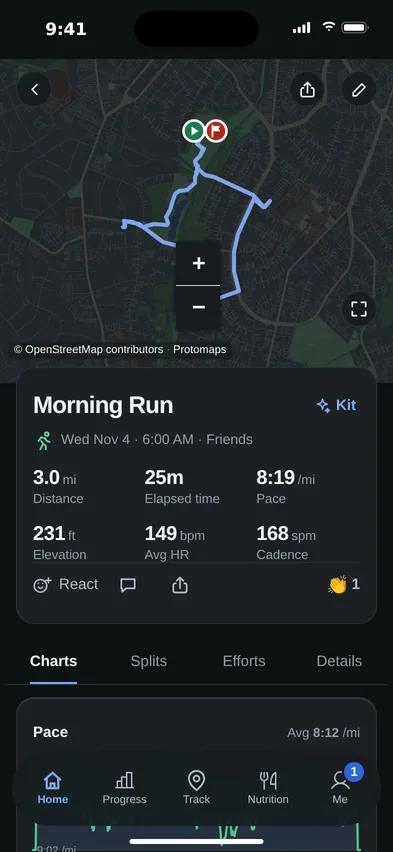
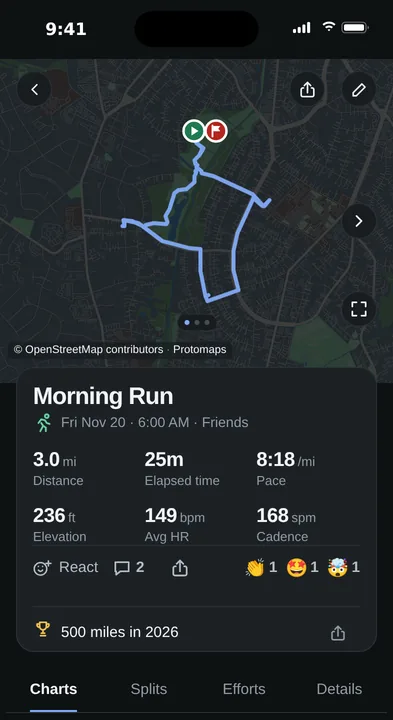
App screenshot fixtures: map, meal, profile and illustrated members (#1324)
* Add fictional app screenshot fixtures for #1319

* Tighten map and meal captures for #1319

* Keep screenshot PNGs full before publishing map crop

* Keep confirmed meal source PNGs full size

diff --git a/dev/screenshots/take.js b/dev/screenshots/take.js
@@ -157,8 +157,8 @@ async function closeCaptureContext(context) {
 }
 (async () => {
   const browser = await chromium.launch(), errors = [];
-  const openFoodDemo = async (login, scheme) => {
-    const context = await browser.newContext({viewport: {width: W, height: H}, deviceScaleFactor: SCALE, colorScheme: scheme,
+  const openFoodDemo = async (login, scheme, height = H) => {
+    const context = await browser.newContext({viewport: {width: W, height}, deviceScaleFactor: SCALE, colorScheme: scheme,
       timezoneId: SCREENSHOT_CLOCK.timezone, serviceWorkers: 'block'});
     await context.route('**/*', route => new URL(route.request().url()).origin === B ? route.continue() : route.abort());
     await context.route('**/style.css*', async route => {
@@ -321,6 +321,62 @@ async function closeCaptureContext(context) {
         await foodChatPage.screenshot({path: `${OUT}/${scheme}-${name}.png`});
         continue;
       }
+      if (opt.foodChat === 'confirmed') {
+        const demo = await openFoodDemo(`zz_test_1319_chat_${scheme}`, scheme);
+        foodChatCtx = demo.context;
+        foodChatPage = demo.page;
+        await enableKitForDemo(foodChatPage);
+        await foodChatPage.goto(B + '/food/describe?meal=lunch');
+        await foodChatPage.locator('#thread-text').waitFor();
+        const fixtureDay = await foodChatPage.evaluate(async () => {
+          const payload = await fetch('/api/food/thread?limit=100').then(r => r.json());
+          const message = [...(payload.messages || [])].reverse().find(m => m.kind === 'user' && m.body === 'Chicken sandwich and an apple for lunch');
+          const reply = message && payload.messages.find(m => m.kind === 'reply' && m.reply_to === message.id);
+          const key = Object.keys(localStorage).find(name => name.startsWith('fit.food.review.draft:'));
+          if (!message?.result?.draft_id || reply?.result?.kind !== 'preview' || !key) {
+            throw Error('Missing the fictional #1319 meal review fixture.');
+          }
+          localStorage.setItem(key, JSON.stringify({id: message.result.draft_id, meal: 'lunch', day: message.local_day, explicitDay: true, active: true}));
+          return message.local_day;
+        });
+        await foodChatPage.goto(B + '/food/describe?meal=lunch');
+        const message = foodChatPage.locator('#thread-messages article').filter({hasText: 'Chicken sandwich and an apple for lunch'});
+        await message.waitFor({timeout: 15000});
+        const reply = foodChatPage.locator('.thread-card').filter({hasText: 'Chicken sandwich'});
+        await reply.waitFor({state: 'visible'});
+        for (const text of ['Chicken sandwich', 'Apple']) {
+          if (!await reply.getByText(text, {exact: true}).count()) throw Error('The Kit meal reply should contain the sandwich and apple.');
+        }
+        const add = foodChatPage.locator('#thread-review-add');
+        await add.waitFor({state: 'visible'});
+        if (await add.isDisabled()) throw Error('The Kit meal estimate must be complete before the Add to log confirmation.');
+        await add.click();
+        await foodChatPage.waitForFunction(async day => {
+          const data = await fetch('/api/food/day?d=' + day).then(r => r.json());
+          return data.entries.some(entry => entry.name === 'Chicken sandwich' && entry.meal === 'lunch') &&
+            data.entries.some(entry => entry.name === 'Apple' && entry.meal === 'lunch');
+        }, fixtureDay);
+        const logged = foodChatPage.locator('.thread-logged-summary').first();
+        await logged.waitFor({state: 'visible'});
+        await logged.click();
+        await foodChatPage.locator('.thread-logged-details').first().waitFor({state: 'visible'});
+        const history = await foodChatPage.locator('#thread-messages').innerText();
+        if (!history.includes('Chicken sandwich and an apple for lunch') || !history.includes('Chicken sandwich') || !history.includes('Apple')) {
+          throw Error('Confirmed meal capture needs the typed meal, Kit reply, and logged foods in the conversation.');
+        }
+        await foodChatPage.evaluate(() => document.activeElement.blur());
+        await foodChatPage.waitForFunction(() => {
+          const toast = document.querySelector('#toast');
+          return !toast || (!toast.classList.contains('on') && Number(getComputedStyle(toast).opacity) < 0.01);
+        }, {timeout: 10000});
+        await foodChatPage.locator('.shell.food-thread').evaluate(el => el.style.setProperty('--chat-height', '540px'));
+        await foodChatPage.waitForTimeout(50);
+        await foodChatPage.evaluate(chrome, {dark: scheme === 'dark', width: W});
+        await foodChatPage.locator('#k-hb').evaluate((el, offset) => { el.style.bottom = `${offset}px`; }, H - 540);
+        await foodChatPage.evaluate(() => new Promise(resolve => requestAnimationFrame(() => requestAnimationFrame(resolve))));
+        await foodChatPage.screenshot({path: `${OUT}/${scheme}-${name}.png`});
+        continue;
+      }
       if (opt.foodChat === 'same-yesterday') {
         const demo = await openFoodDemo(`zz_test_658_food_${scheme}`, scheme);
         foodRepeatCtx = demo.context;
@@ -347,6 +403,10 @@ async function closeCaptureContext(context) {
       });
       await page.evaluate((p) => { document.querySelectorAll('.scrim').forEach((x) => x.remove()); document.body.classList.remove('has-sheet'); window.scrollTo(0, 0); go(p); }, ids[path] || path);   // no sheet left open from the shot before
       await page.waitForTimeout(1500);
+      if(name==='profile'){
+        const entry=page.locator('.me-featured-title a');await entry.waitFor({state:'visible'});
+        if((await entry.innerText()).trim()!=='See all')throw Error('Profile example must show the entry to Achievements.');
+      }
       if (name === 'nutrition-filled') {
         await page.locator('.calorie-ring[aria-valuetext="1,650 of 1,800 calories"]').waitFor({state: 'visible', timeout: 12000});
         await page.getByText('Oats and berries', {exact: true}).waitFor({state: 'visible'});

diff --git a/dev/screenshots/tour.js b/dev/screenshots/tour.js
@@ -4,6 +4,7 @@
 const {chromium} = require('playwright');
 const assert = require('node:assert/strict');
 const fs = require('node:fs');
+const path = require('node:path');
 const OUT = process.argv[2], B = process.argv[3] || 'http://localhost:8798';
 const PAD = 12;   // page background kept around a card so its edge and shadow stay visible
 const ONLY = process.env.KINETTA_TOUR_ONLY ? new Set(process.env.KINETTA_TOUR_ONLY.split(',').filter(Boolean)) : null;
@@ -27,6 +28,7 @@ const CROPS = [
   ['friends-feed', '/activity', '.activity-card', '.activity-card', 'alex'],
   ['friends-photos', '/activity', '.activity-card', '.activity-card', 'alex', 'photo'],
   ['friends-profile', '/people/alex', '.me-card', '.me-card', 'alex'],
+  ['profile-achievements', '/people/alex', '.me-card', '.me-featured-achievements', 'alex', 'scroll-crop'],
   ['friends-find', '/me/friends?find=1&q=Morgan', '#fr-find', '#fr-found', 'alex', 'hide-friends-groups'],
   ['run-achievements', '/me/achievements', '.profile-achievement-group[aria-labelledby=\"profile-achievement-group-run\"]', '.profile-achievement-group[aria-labelledby=\"profile-achievement-group-run\"]', 'alex', 'scroll-crop'],
 ];
@@ -180,15 +182,31 @@ async function saveChallengeCrop(page, name, scheme) {
         member: true, owner: false, joining_closed: false, ended_early: false, manual: false, garmin_sources: [],
         self: {value: 18.6, complete: false, manual: false, garmin_sources: [], days_left: 10, finished: false, needs_target: false},
         people: [
-          {username: 'casey', photo: false, value: 26, complete: false},
-          {username: 'alex', photo: false, value: 18.6, complete: false},
-          {username: 'jordan', photo: false, value: 12, complete: false},
+          {username: 'casey', photo: 'fluent-emoji-mit-r1', value: 26, complete: false},
+          {username: 'alex', photo: 'fluent-emoji-mit-r1', value: 18.6, complete: false},
+          {username: 'jordan', photo: 'fluent-emoji-mit-r1', value: 12, complete: false},
         ],
+      };
+      const avatarFiles = {
+        casey: 'person_running_flat_default.svg',
+        alex: 'person_biking_flat_default.svg',
+        jordan: 'person_walking_flat_default.svg',
       };
       await page.route('**/api/challenges**', route => {
         const pathname = new URL(route.request().url()).pathname;
         if (pathname === '/api/challenges') return route.fulfill({json: []});
         if (pathname === `/api/challenges/${challenge.code}`) return route.fulfill({json: challenge});
+        const match = pathname.match(new RegExp(`^/api/challenges/${challenge.code}/photo/([^/]+)$`));
+        if (match) {
+          const username = decodeURIComponent(match[1]);
+          const file = avatarFiles[username];
+          if (!file) return route.fulfill({status: 404});
+          const source = fs.readFileSync(path.join(__dirname, '../../app/static/profile.fluent-emoji/flat', file), 'utf8');
+          const art = source.replace(/^<svg[^>]*>/, '').replace(/<\/svg>\s*$/, '');
+          const surface = {casey: '#e8eefb', alex: '#e3f4e9', jordan: '#fff0df'}[username];
+          const svg = `<svg width="32" height="32" viewBox="0 0 32 32" xmlns="http://www.w3.org/2000/svg"><circle cx="16" cy="16" r="16" fill="${surface}"/>${art}</svg>`;
+          return route.fulfill({status: 200, contentType: 'image/svg+xml', body: svg});
+        }
         return route.fallback();
       });
       await page.goto(B + '/me/challenges');

diff --git a/dev/screenshots/food_confirmed_chat_fixture.py b/dev/screenshots/food_confirmed_chat_fixture.py
@@ -1,0 +1,53 @@
+"""Stage a fictional typed lunch for the #1319 screenshot; the UI confirms it locally."""
+import datetime as dt
+import sys
+import uuid
+from unittest.mock import patch
+from zoneinfo import ZoneInfo
+
+sys.path.insert(0, '/srv')
+
+from fastapi.testclient import TestClient
+from app import db, food_thread as thread, food_thread_compose as compose, food_thread_sources as sources
+from app.main import app
+
+BODY = 'Chicken sandwich and an apple for lunch'
+FOODS = [
+    {'name': 'Chicken sandwich', 'amount': '1 sandwich', 'grams': 220, 'kcal': 420,
+     'protein_g': 31, 'carbs_g': 42, 'fat_g': 13, 'fiber_g': 4},
+    {'name': 'Apple', 'amount': '1 medium', 'grams': 182, 'kcal': 95,
+     'protein_g': 0, 'carbs_g': 25, 'fat_g': 0, 'fiber_g': 4},
+]
+CAPTURED_AT = dt.datetime.fromisoformat((sys.argv[1] if len(sys.argv) > 1 else '2026-11-20T17:00:00Z').replace('Z', '+00:00'))
+if CAPTURED_AT.tzinfo is None:
+    CAPTURED_AT = CAPTURED_AT.replace(tzinfo=ZoneInfo('America/New_York'))
+CAPTURED_AT = CAPTURED_AT.astimezone(ZoneInfo('America/New_York'))
+DAY = CAPTURED_AT.date()
+
+with patch('urllib.request.urlopen', side_effect=AssertionError('Screenshot fixture must not make external requests')):
+    for theme in ('light', 'dark'):
+        client = TestClient(app)
+        client.headers['Origin'] = 'http://testserver'
+        assert client.post('/api/login', json={
+            'login': f'zz_test_1319_chat_{theme}', 'password': 'green teapot on the hill'
+        }).status_code == 200
+        response = client.post('/api/food/thread/messages', json={
+            'client_id': str(uuid.uuid5(uuid.NAMESPACE_URL, f'https://kinetta.app/demo/1319/meal/{theme}')),
+            'draft_id': str(uuid.uuid5(uuid.NAMESPACE_URL, f'https://kinetta.app/demo/1319/draft/{theme}')),
+            'review_only': True, 'body': BODY, 'meal': 'lunch', 'day': str(DAY), 'captured_at': CAPTURED_AT.isoformat(),
+        })
+        assert response.status_code == 201, response.text
+        message = response.json()['message']
+        drafts = sources.model_drafts({'items': FOODS, 'notes': '', 'model': 'fictional-layout-standin'})
+        part = {'index': 0, 'status': 'ready', 'estimated': True,
+                'drafts': drafts, 'entries': sources.draft_entries(drafts)}
+        with db.connect() as connection:
+            uid = connection.execute('SELECT id FROM users WHERE login=%s', (f'zz_test_1319_chat_{theme}',)).fetchone()['id']
+            result = compose.write(connection, uid, thread.locked_message(connection, uid, message['id']), {
+                'composed': True, 'day': str(DAY), 'meal': 'lunch', 'parts': [part],
+            })
+        reply = next(row for row in result['messages'] if row.get('reply_to') == message['id'])
+        assert reply['result']['kind'] == 'preview', reply['result']
+        assert [entry['name'] for entry in reply['result']['parts'][0]['entries']] == ['Chicken sandwich', 'Apple']
+        assert client.get(f'/api/food/day?d={DAY}').json()['entries'] == [], 'the fixture is unlogged until the screenshot clicks Add to log'
+        print(theme, 'fictional sandwich-and-apple Kit review staged; awaiting explicit screenshot confirmation')

diff --git a/dev/screenshots/stage.py b/dev/screenshots/stage.py
@@ -189,6 +189,16 @@ for theme in ('light', 'dark'):
         existing('POST', '/api/account/delete', {'password': weight_body['password']})
         alex('POST', '/api/admin/people', weight_body)
     person(weight_login, weight_body['password'])('PUT', '/api/profile', {'tz': 'America/New_York', 'units': 'imperial', 'ai_ok': False, 'ai_adult': False})
+    confirmed_login = f'zz_test_1319_chat_{theme}'
+    confirmed_body = {'login': confirmed_login, 'name': f'Fictional meal example {theme}', 'password': 'green teapot on the hill'}
+    try:
+        alex('POST', '/api/admin/people', confirmed_body)
+    except urllib.error.HTTPError as error:
+        if error.code != 409: raise
+        existing = person(confirmed_login, confirmed_body['password'])
+        existing('POST', '/api/account/delete', {'password': confirmed_body['password']})
+        alex('POST', '/api/admin/people', confirmed_body)
+    person(confirmed_login, confirmed_body['password'])('PUT', '/api/profile', {'tz': 'America/New_York', 'units': 'imperial', 'ai_ok': True, 'ai_adult': True})
 
 # A prepared three-food review keeps the browser screenshot deterministic. The
 # helper writes only to the disposable screenshot app and uses fictional values.
@@ -205,6 +215,12 @@ if copied_fixture:
     subprocess.run(['docker', 'cp', str(source), f'{apps[0]}:{fixture}'], check=True)
 try:
     subprocess.run(['docker', 'exec', apps[0], 'python', fixture, now.isoformat()], check=True)
+    confirmed_fixture = f'/tmp/kinetta-meal-example-fixture-{os.getpid()}.py'
+    subprocess.run(['docker', 'cp', str(Path(__file__).with_name('food_confirmed_chat_fixture.py')), f'{apps[0]}:{confirmed_fixture}'], check=True)
+    try:
+        subprocess.run(['docker', 'exec', apps[0], 'python', confirmed_fixture, now.isoformat()], check=True)
+    finally:
+        subprocess.run(['docker', 'exec', apps[0], 'rm', '-f', confirmed_fixture], check=False)
     weight_fixture = f'/tmp/kinetta-food-weight-fixture-{os.getpid()}.py'
     subprocess.run(['docker', 'cp', str(Path(__file__).with_name('food_weight_chat_fixture.py')), f'{apps[0]}:{weight_fixture}'], check=True)
     try:

diff --git a/dev/screenshots/to_webp.py b/dev/screenshots/to_webp.py
@@ -5,6 +5,13 @@ import sys
 from PIL import Image
 from manifest import write_manifest
 
+CROP_HEIGHTS = {
+    'light-activity-detail': 1440,
+    'dark-activity-detail': 1440,
+    'light-kit-food-chat-confirmed': 1080,
+    'dark-kit-food-chat-confirmed': 1080,
+}
+
 def convert(source, output):
     output = Path(output); output.mkdir(parents=True, exist_ok=True)
     files = sorted(Path(source).glob('*.png'))
@@ -14,8 +21,12 @@ def convert(source, output):
             image = captured.convert('RGB')
         if image.size != (786, 1704):
             raise ValueError(f'{path.name}: expected a whole786×1704 website capture')
+        # Keep source PNGs whole for pipeline validation. These website assets use a
+        # published crop so the relevant content sits together above fixed app controls.
+        if path.stem in CROP_HEIGHTS:
+            image = image.crop((0, 0, 786, CROP_HEIGHTS[path.stem]))
         image.save(output / (path.stem + '.webp'), 'WEBP', quality=82, method=6)
-        image.resize((393, 852), Image.Resampling.LANCZOS).save(output / (path.stem + '-1x.webp'), 'WEBP', quality=82, method=6)
+        image.resize((image.width // 2, image.height // 2), Image.Resampling.LANCZOS).save(output / (path.stem + '-1x.webp'), 'WEBP', quality=82, method=6)
         print(path.name)
     write_manifest(output)
 

diff --git a/dev/screenshots/README.md b/dev/screenshots/README.md
@@ -1,9 +1,13 @@
 # Fictional product captures
 
-`scenes.json` is the shared website/App Store capture list. Each entry supplies a stable scene name, the app route (or the demo-record resolver in `take.js`), and any setup action. The same clean data comes from `dev/demo/seed.py`, `stage.py` and `coach.sql`. Activity uses three accepted fictional friends, plus a separate pending request; it shows a populated feed rather than a new-account discovery prompt. The Food story includes Add food, Nutrition, Insights and recipes. Retake after app design changes merge.
+`scenes.json` is the shared website/App Store capture list. Each entry supplies a stable scene name, the app route (or the demo-record resolver in `take.js`), and any setup action. The same clean data comes from `dev/demo/seed.py`, `stage.py` and `coach.sql`. Activity uses three accepted fictional friends, plus a separate pending request; it shows a populated feed rather than a new-account discovery prompt. The Food story includes Add food, Nutrition, Insights and recipes. `kit-food-chat-confirmed` stages a typed fictional lunch, then confirms it through the app UI; the sample nutrition is stand-in data, not an AI result. Retake after app design changes merge.
+
+The website challenge detail fixture uses three **illustrated avatars**, not portraits of real people. They are Microsoft Fluent Emoji Flat SVGs, pinned in `app/static/profile.fluent-emoji/README.md` to upstream commit `1ffb34c752ecf5d402f04cfb4b392c77f57c54bc` and distributed under the included MIT licence. These are stock illustrations, so a model release does not apply. Preserve the upstream copyright and MIT notice when reusing the artwork. Do not replace these with uncleared photos.
+
+The #1319 PR1 review captures are `site/assets/shots/1319-*` (working map, confirmed Kit meal and Profile) and `site/assets/tour/profile-achievements-*`. Activity detail and confirmed meal are captured as full 393×852 viewports (786×1704 raw PNGs); the confirmed-meal app shell is 540 CSS px high so its sentence, result and suggestion sit together. The WebP converter crops only the published Activity map asset to the top 393×720 CSS px, before the fixed tab bar and Pace chart, and the confirmed-meal asset to the top 393×540 px. The Profile capture stays at 393×852. They use fictional records and can be reused by the follow-up website layout PR.
 
 Start an isolated disposable Compose project with `compose.standin.yml`, load the fixtures, then run `take.js <png-directory> <base-url>` and `to_webp.py <png-directory> site/assets/shots`. Set the operator-approved map variables explicitly: the capture script blocks the public OSM tile endpoint. The website workflow reads only the published public `/api/map-config` through `map_env.py`, with no account or private runtime access. For localhost captures, its range-request relay uses the published app origin and adapts response CORS to localhost; archive bytes and rendering stay unchanged. No production CORS setting is changed. A visible map-load failure stops capture/publication. The three-food chat card is prepared by `food_chat_fixture.py` with fictional nutrition values; food estimates, product lookup and prepared Kit reviews use stand-ins, with no live AI or food-provider request. The screenshots show actual implemented browser controls and fictional records; they do not demonstrate model accuracy.
 
-Website PNGs are whole393×852 browser viewports at2× (786×1704). The converter makes both393×852 `-1x.webp` and786×1704 `.webp` files, preserving the complete screen. Both themes use the same framing. `manifest.json` records the source revision and capture time; an open page refreshes each srcset candidate while preserving its density descriptor.
+Every website PNG is a whole393×852 browser viewport at2× (786×1704), in both themes and for every scene. The converter validates each complete PNG, then makes matching `-1x.webp` and `.webp` assets; Activity-detail WebPs use a top crop at 393×720/786×1440, and confirmed-meal WebPs at 393×540/786×1080. All other published screenshots preserve the complete viewport. Both themes use the same framing. `manifest.json` records the source revision and capture time; an open page refreshes each srcset candidate while preserving its density descriptor.
 
 These website captures draw a simulated status/home bar and use browser safe-area substitutions. **They are not native iPhone evidence.** For #415, reuse the scene names, routes and fictional fixtures in the native 6.9-inch UIKit Simulator at 1320 × 2868 when that run is available. If it times out, the separate browser fallback captures directly at 440 × 956 @3x, produces the same pixel dimensions, and must remain labeled `browser capture`; see `mobile/appstore/README.md`. Do not resize the 393 × 852 website captures. Native compilation, signed upload, App Store privacy answers, review and physical-device acceptance are separate release steps.
